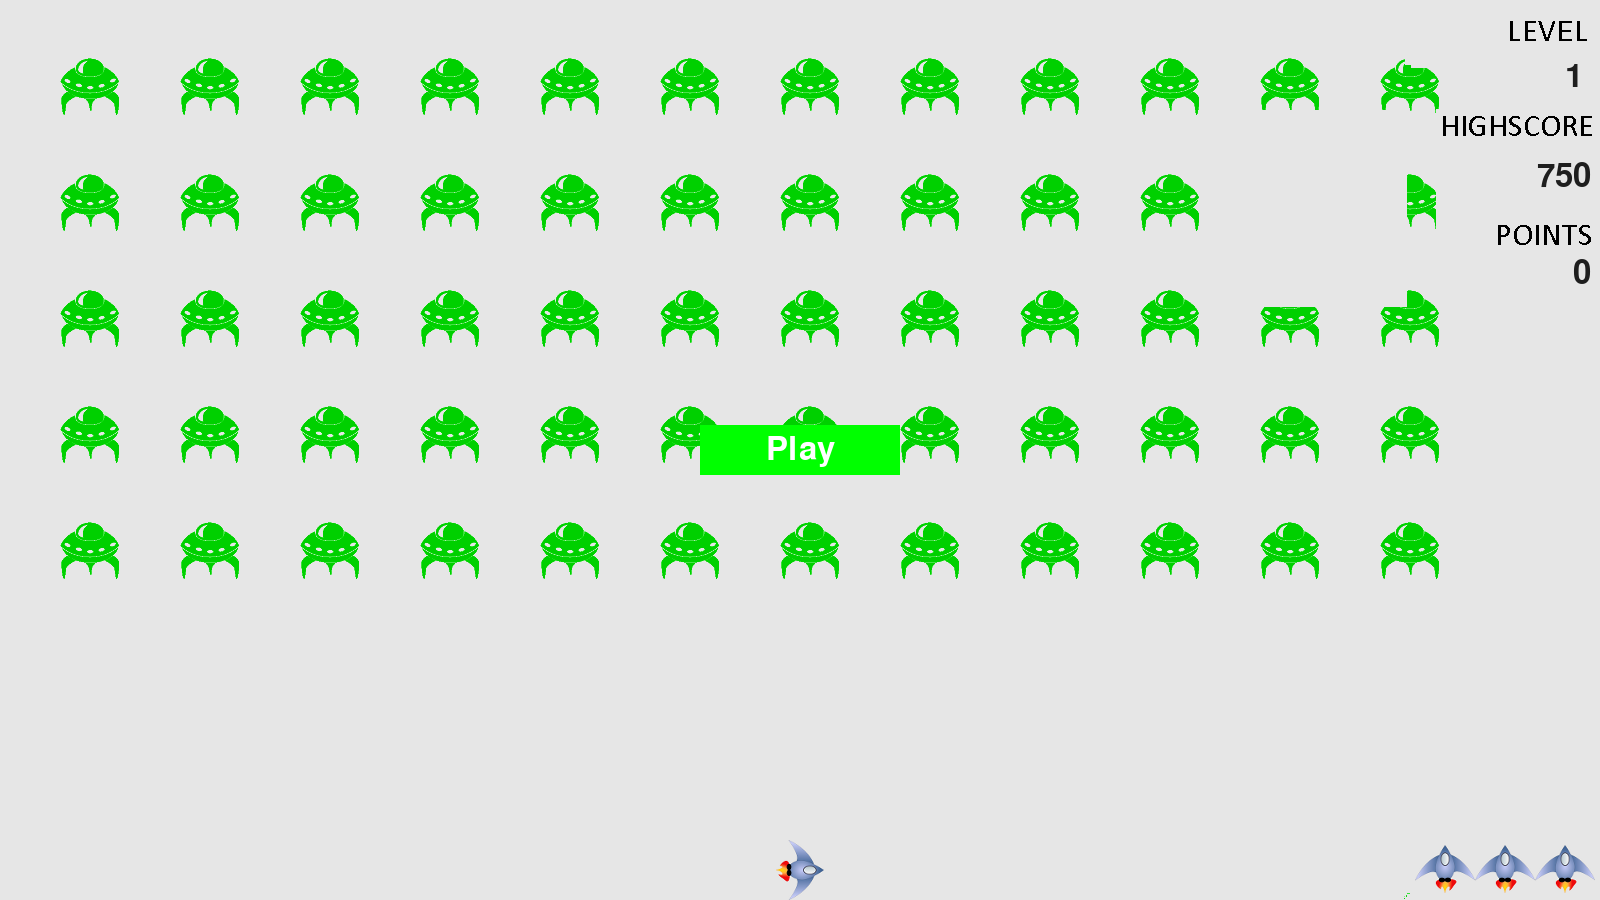
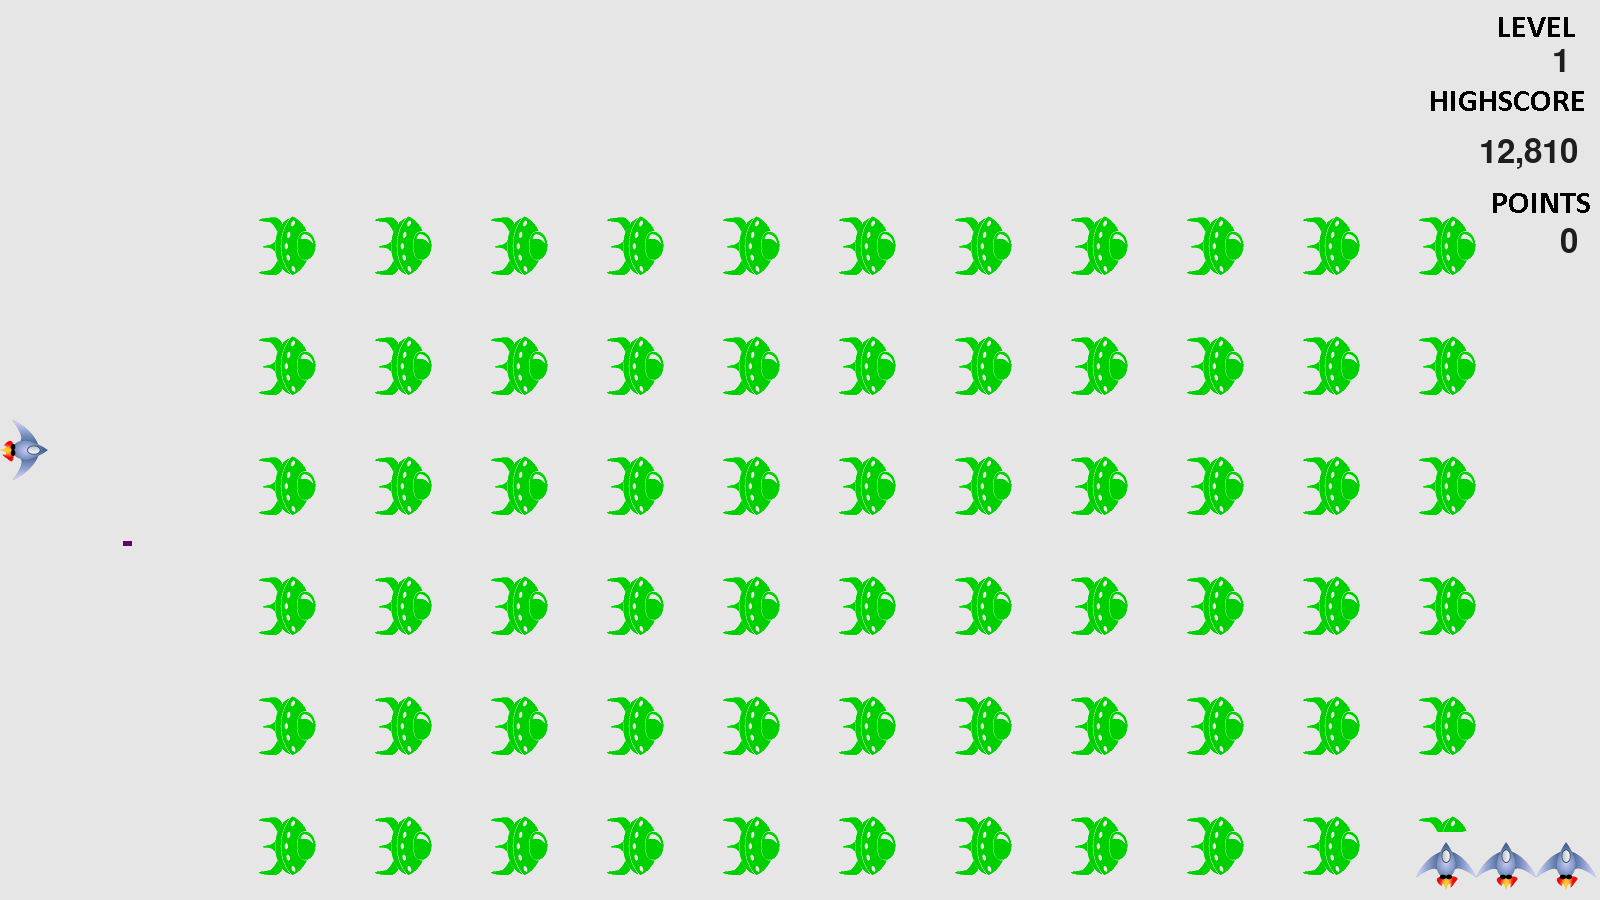
Fixed aliens and alien bullets

diff --git a/alien_invasion.py b/alien_invasion.py
@@ -237,7 +237,6 @@ class AlienInvasion:
             for alien_number in range(number_aliens_y):
                 self._create_alien(alien_number, column_number)
 
-
     def _alien_setup(self):
         """
         Determines the number of columns of aliens
@@ -263,7 +262,7 @@ class AlienInvasion:
         alien_width, alien_height = alien.rect.size
         alien.y = alien_height + 2 * alien_height * alien_number
         alien.rect.y = alien.y
-        alien.rect.x = alien.rect.width + 2 * alien.rect.width * row_number
+        alien.rect.x = 200 + alien.rect.width + 2 * alien.rect.width * row_number
         self.aliens.add(alien)
 
     def _check_fleet_edges(self):

diff --git a/alien_bullet.py b/alien_bullet.py
@@ -13,13 +13,13 @@ class AlienBullet(Sprite):
 
         self.rect = pygame.Rect(0, 0, self.settings.alien_bullet_width, self.settings.alien_bullet_height)
 
-        self.rect.midbottom = alien.rect.midbottom
+        self.rect.midleft = alien.rect.midleft
 
-        self.y = float(self.rect.y)
+        self.x = float(self.rect.x)
 
     def update(self):
-        self.y += self.settings.alien_bullet_speed
-        self.rect.y = self.y
+        self.x -= self.settings.alien_bullet_speed
+        self.rect.x = self.x
 
     def draw_bullet(self):
         pygame.draw.rect(self.screen, self.color, self.rect)

diff --git a/settings.py b/settings.py
@@ -36,9 +36,9 @@ class Settings:
     def initialize_dynamic_settings(self):
         """Initialize settings that change throughout the game."""
         self.ship_speed = 1.5
-        self.bullet_speed = 1.0
+        self.bullet_speed = 1.8
         self.alien_speed = 0.3
-        self.alien_bullet_speed = 0.7
+        self.alien_bullet_speed = 1.2
         self.alien_bullet_probability = 1
 
         # fleet_direction of 1 represents right; -1 represents left.
